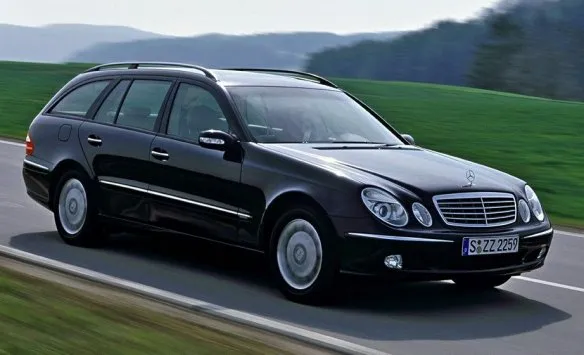
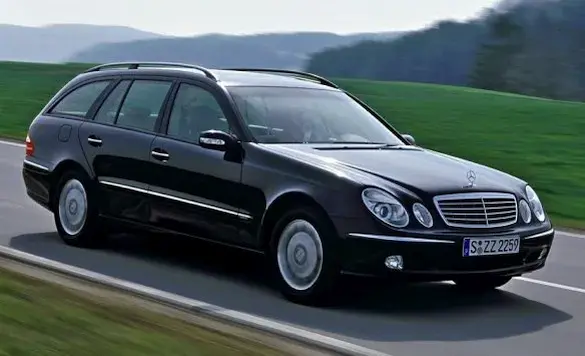
246

diff --git a/pic/ja_mb_img_e.html b/pic/ja_mb_img_e.html
@@ -732,8 +732,8 @@
 					</div>
 					<section>
 						<h4 class="displayNone">T-Model</h4>
-						<a href="full/e/s211_f.jpg"><img loading="lazy" src="style/e/s211_f.webp" alt="メルセデス,S211,Eクラス,フロント" width="584" height="355"></a>
-						<a href="full/e/s211_r.jpg"><img loading="lazy" src="style/e/s211_r.webp" alt="メルセデス,S211,Eクラス,リヤ" width="619" height="355"></a><br>
+						<a href="full/e/s211_f.jpg"><img loading="lazy" src="style/e/s211_f.webp" alt="メルセデス,S211,Eクラス,フロント" width="585" height="356"></a>
+						<a href="full/e/s211_r.jpg"><img loading="lazy" src="style/e/s211_r.webp" alt="メルセデス,S211,Eクラス,リヤ" width="620" height="356"></a><br>
 						<h5 class="i">Facelift</h5>
 						<p class="i m1">06/2006</p><br>
 						<a href="full/e/s211_f2.jpg"><img loading="lazy" src="style/e/s211_f2.webp" alt="メルセデス,S211,Eクラス,フロント" width="541" height="376"></a>

diff --git a/pic/mb_img_e.html b/pic/mb_img_e.html
@@ -732,8 +732,8 @@
 					</div>
 					<section>
 						<h4 class="displayNone">T-Modell</h4>
-						<a href="full/e/s211_f.jpg"><img loading="lazy" src="style/e/s211_f.webp" alt="Mercedes,S211,E-klasse,Frontansicht" width="584" height="355"></a>
-						<a href="full/e/s211_r.jpg"><img loading="lazy" src="style/e/s211_r.webp" alt="Mercedes,S211,E-klasse,Rückansicht" width="619" height="355"></a><br>
+						<a href="full/e/s211_f.jpg"><img loading="lazy" src="style/e/s211_f.webp" alt="Mercedes,S211,E-klasse,Frontansicht" width="585" height="356"></a>
+						<a href="full/e/s211_r.jpg"><img loading="lazy" src="style/e/s211_r.webp" alt="Mercedes,S211,E-klasse,Rückansicht" width="620" height="356"></a><br>
 						<h5 class="i">Modellpflege</h5>
 						<p class="i m1">06/2006</p><br>
 						<a href="full/e/s211_f2.jpg"><img loading="lazy" src="style/e/s211_f2.webp" alt="Mercedes,S211,E-klasse,Frontansicht" width="541" height="376"></a>

diff --git a/pic/en_mb_img_e.html b/pic/en_mb_img_e.html
@@ -732,8 +732,8 @@
 					</div>
 					<section>
 						<h4 class="displayNone">T-Model</h4>
-						<a href="full/e/s211_f.jpg"><img loading="lazy" src="style/e/s211_f.webp" alt="Mercedes,S211,E-class,Front view" width="584" height="355"></a>
-						<a href="full/e/s211_r.jpg"><img loading="lazy" src="style/e/s211_r.webp" alt="Mercedes,S211,E-class,Rear view" width="619" height="355"></a><br>
+						<a href="full/e/s211_f.jpg"><img loading="lazy" src="style/e/s211_f.webp" alt="Mercedes,S211,E-class,Front view" width="585" height="356"></a>
+						<a href="full/e/s211_r.jpg"><img loading="lazy" src="style/e/s211_r.webp" alt="Mercedes,S211,E-class,Rear view" width="620" height="356"></a><br>
 						<h5 class="i">Facelift</h5>
 						<p class="i m1">06/2006</p><br>
 						<a href="full/e/s211_f2.jpg"><img loading="lazy" src="style/e/s211_f2.webp" alt="Mercedes,S211,E-class,Front view" width="541" height="376"></a>
